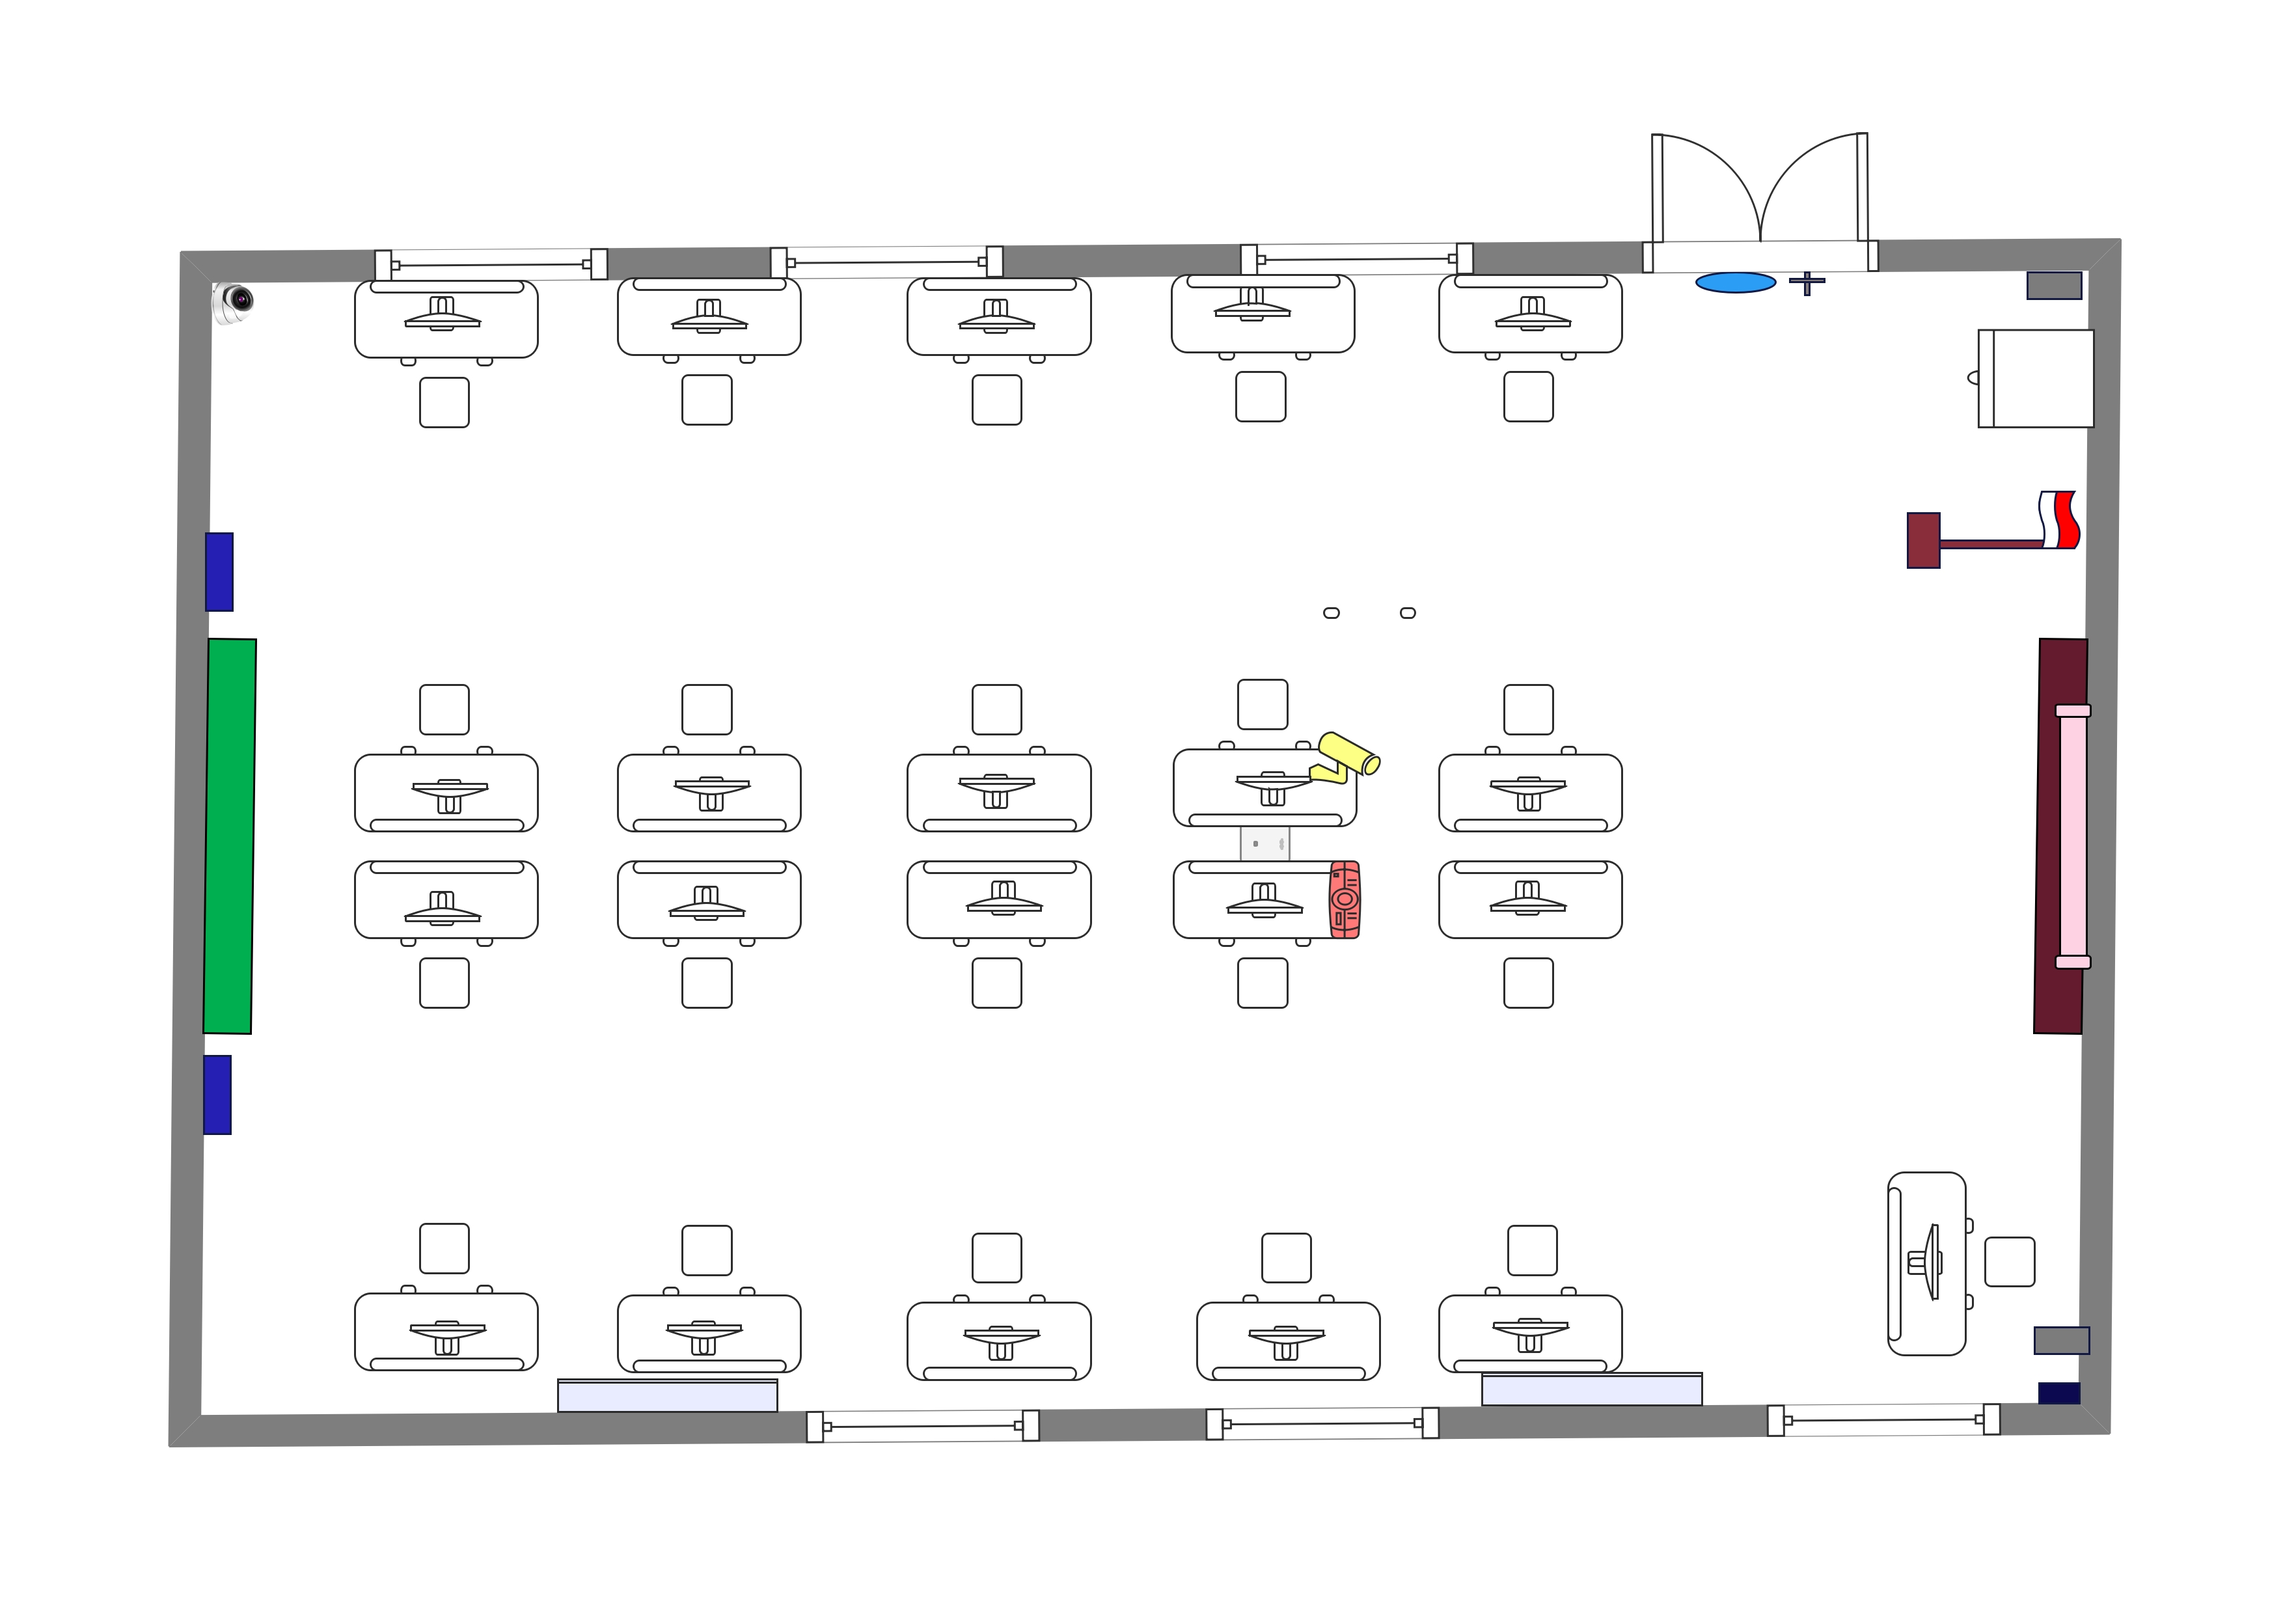
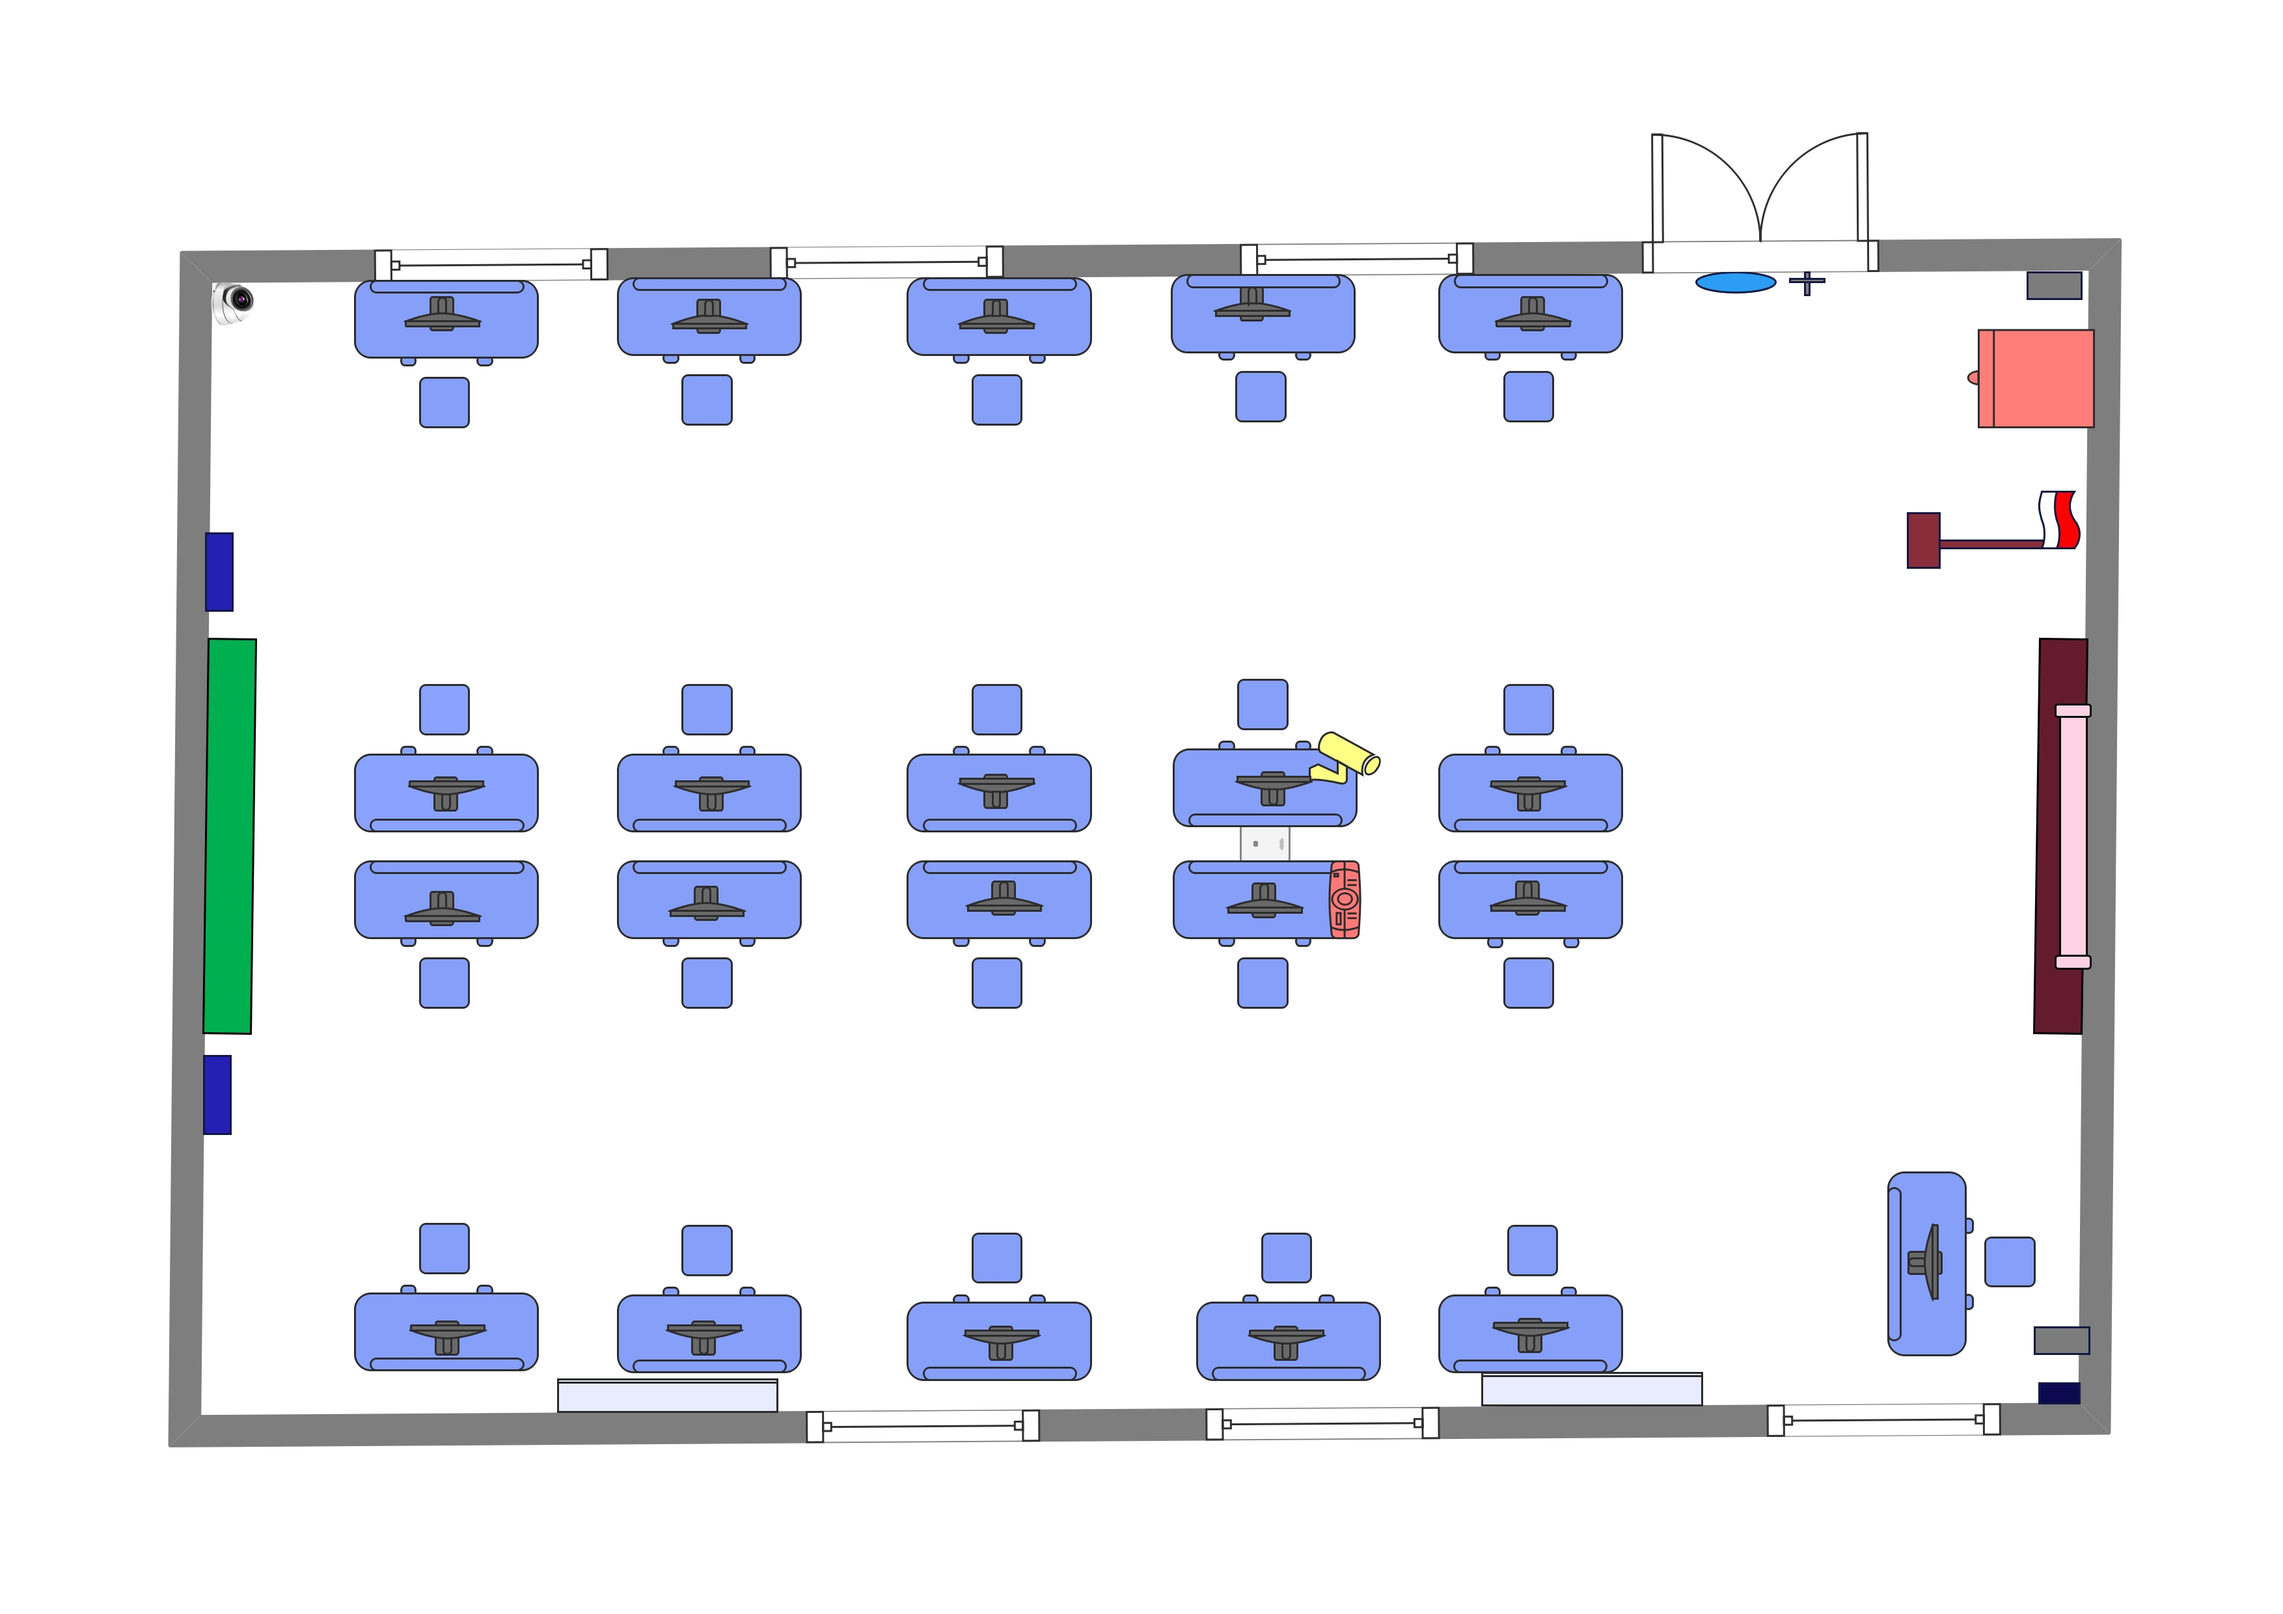
Update Denah Informasi

diff --git a/src/data/roomsData.js b/src/data/roomsData.js
@@ -527,7 +527,25 @@ export const roomsData = {
     ],
     mapImage: "/maps/r030402.jpg",
     legendItems: [
-      { number: 1, name: "Pintu Masuk", color: "#fffff" }
+      { number: 1, name: "Pintu Masuk", color: "#fffff" },
+      { number: 2, name: "Jam Dinding", color: "#2B9DF5" },
+      { number: 3, name: "IP Camera", color: "#FDFF84" },
+      { number: 4, name: "Projector", color: "#FF7978" },
+      { number: 5, name: "Papan Tulis Hijau", color: "#00AF50" },
+      { number: 6, name: "Bendera", color: "#892D3A", textColor: "#fffff"},
+      { number: 7, name: "Papan Tulis", color: "#641B2E", textColor: "#fffff"},
+      { number: 8, name: "Layar Proyektor", color: "#fed2e2"},
+      { number: 9, name: "Bingkai", color: "#251FB3"},
+      { number: 10, name: "Layar Proyektor", color: "#FED2E3"},
+      { number: 11, name: "Speaker", color: "#7C7C7C", textColor: "#fffff"},
+      { number: 12, name: "Salib", color: "#14183D", textColor: "#fffff"},
+      { number: 13, name: "Meja Victor", color: "#869FF9", textColor: "#fffff"},
+      { number: 14, name: "Kursi Plastik", color: "#869FF9", textColor: "#fffff"},
+      { number: 15, name: "Komputer", color: "#696969", textColor: "#fffff"},
+      { number: 16, name: "Jendela", color: "#fffff"},
+      { number: 17, name: "Router", color: "#f4f4f4"},
+      { number: 18, name: "AC", color: "#f4f4f4"},
+      { number: 19, name: "Lemari Kayu", color: "#FF7E79"}
     ]
   },
 
